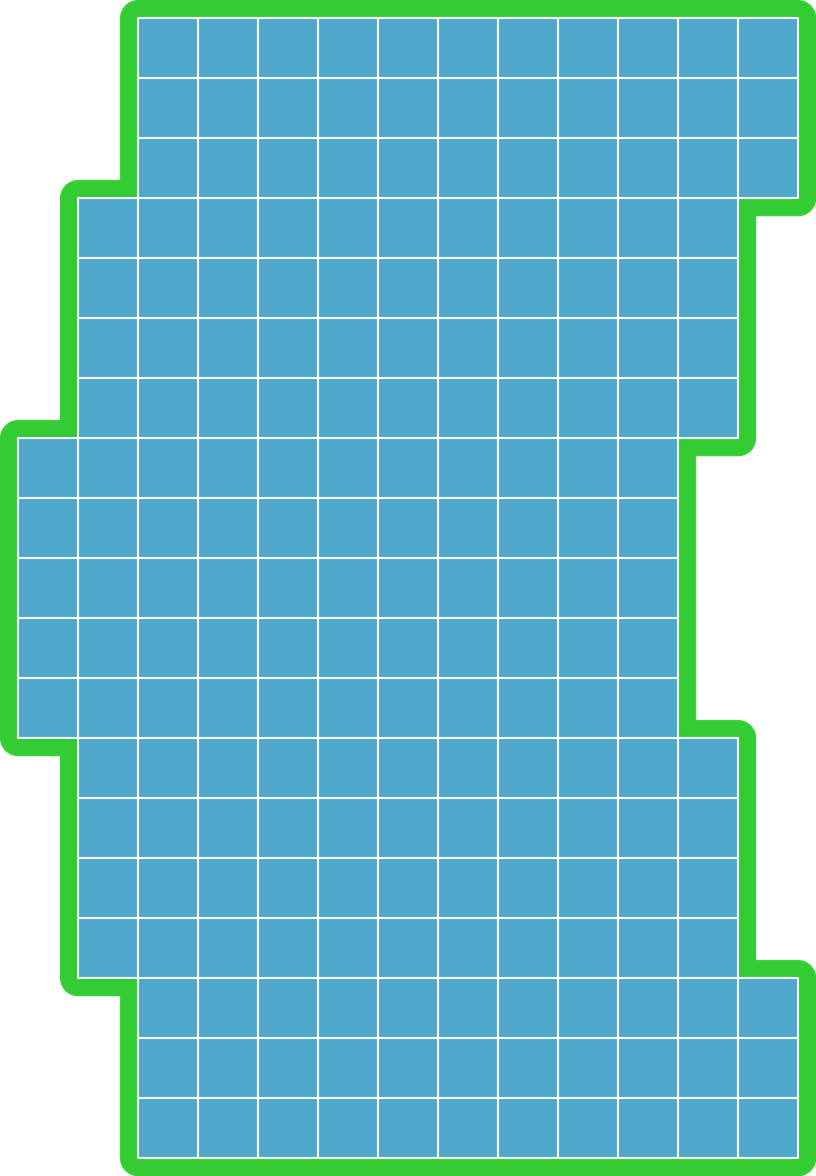
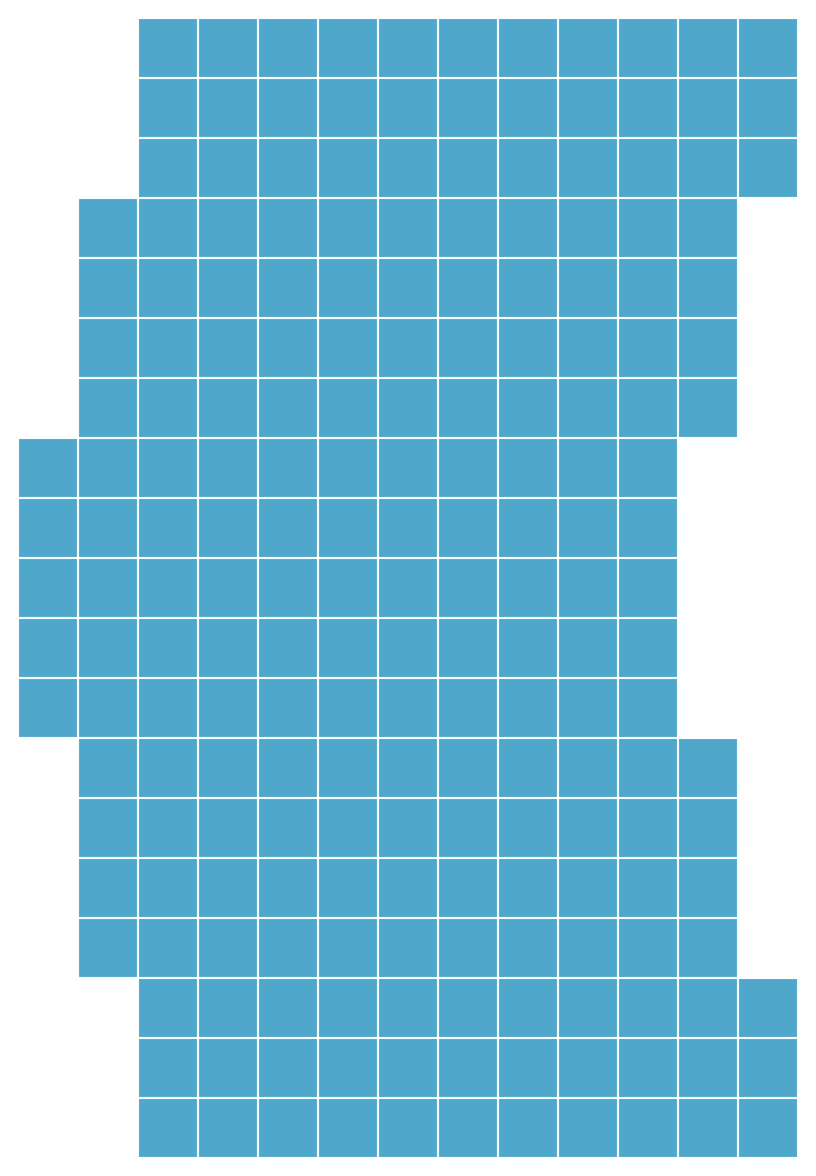
feedtheducks: random setup is the default, manual placement is the advanced option; hipposcrocodiles: riverbank covers the whole page, no green frame around the board

Changed region(s): [[0.0, 0.0, 1.0, 1.0]]

diff --git a/games/hipposcrocodiles/bga/hipposcrocodiles.css b/games/hipposcrocodiles/bga/hipposcrocodiles.css
@@ -1,12 +1,22 @@
 /* Hippos & Crocodiles styles */
 
-/* Game area: a calm, muted African riverbank (design/make_scene.py), low contrast so the board stays clear */
-body.hippos_page_bg #game_play_area {
+/* Whole page: a calm, muted African riverbank (design/make_scene.py), low contrast so the board stays clear.
+   Fixed to the viewport so it covers everything behind the game area and the player panels. */
+body.hippos_page_bg {
     background-color: #6f8a76;
     background-image: url('img/scene.webp');
     background-size: cover;
-    background-position: center top;
+    background-position: center center;
     background-repeat: no-repeat;
+    background-attachment: fixed;
+}
+
+body.hippos_page_bg #page-content,
+body.hippos_page_bg #ebd-body,
+body.hippos_page_bg #game_play_area,
+body.hippos_page_bg #game_play_area_wrap,
+body.hippos_page_bg .bga-game-area {
+    background: transparent !important;
 }
 
 #hippos_root {

diff --git a/games/hipposcrocodiles/design/make_board_art.py b/games/hipposcrocodiles/design/make_board_art.py
@@ -1,7 +1,7 @@
 """Generates every Hippos & Crocodiles image from the cell masks in Rules.php (single source of truth).
 
-Boards (bga/img/board_<map>.png): one uniform water colour, thin white grid lines on the mask cells, and a green
-rounded frame that follows the mask outline. No title, logo or publisher name. The grid starts at (PAD, PAD) and
+Boards (bga/img/board_<map>.png): one uniform water colour, thin white grid lines on the mask cells, and no frame
+(transparent margin of PAD px around the grid). No title, logo or publisher name. The grid starts at (PAD, PAD) and
 every cell is PITCH px, so Game.js needs only PITCH / PAD (no per-map table).
 Tiles: piece_hippo.png / piece_crocodile.png (cropped and recoloured from the print) and piece_trunk.png (drawn).
 Also writes tests/harness/masks.json for the browser harness.
@@ -46,10 +46,7 @@ def build(rows):
     big = Image.new('RGBA', (w * SS, h * SS), (0, 0, 0, 0))
     d = ImageDraw.Draw(big)
     cells = [(r, c) for r in range(nr) for c in range(nc) if rows[r][c] == '#']
-    # frame: every cell grown by PAD with rounded corners (union follows the outline)
-    for r, c in cells:
-        x0, y0 = A + c * P, A + r * P
-        d.rounded_rectangle((x0 - A, y0 - A, x0 + P + A, y0 + P + A), radius=A, fill=FRAME)
+    # no frame (owner, 30 Oct 2026): the PAD margin stays transparent so Game.js geometry is unchanged
     # water
     for r, c in cells:
         x0, y0 = A + c * P, A + r * P
